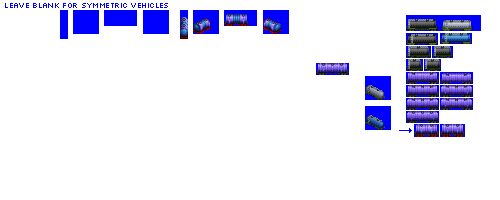
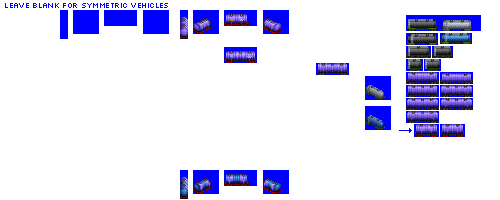
Change: explore type 2 tank car sprites

diff --git a/src/vehicles/pony/tank_cars_type_2_pony.py b/src/vehicles/pony/tank_cars_type_2_pony.py
@@ -10,7 +10,7 @@ def main(roster_id, **kwargs):
         base_numeric_id=17300,
         gen=3,
         subtype="A",
-        sprites_complete=True,
+        sprites_complete=False,
     )
 
     consist.add_unit(type=FreightCar, chassis="2_axle_filled_16px")
@@ -21,7 +21,7 @@ def main(roster_id, **kwargs):
         base_numeric_id=25020,
         gen=3,
         subtype="B",
-        sprites_complete=True,
+        sprites_complete=False,
     )
 
     consist.add_unit(type=FreightCar, chassis="4_axle_gapped_24px")
@@ -32,7 +32,7 @@ def main(roster_id, **kwargs):
         base_numeric_id=28320,
         gen=3,
         subtype="C",
-        sprites_complete=True,
+        sprites_complete=False,
     )
 
     consist.add_unit(type=FreightCar, chassis="4_axle_gapped_32px")
@@ -43,7 +43,7 @@ def main(roster_id, **kwargs):
         base_numeric_id=17720,
         gen=4,
         subtype="A",
-        sprites_complete=True,
+        sprites_complete=False,
     )
 
     consist.add_unit(type=FreightCar, chassis="2_axle_sparse_16px")
@@ -54,7 +54,7 @@ def main(roster_id, **kwargs):
         base_numeric_id=30850,
         gen=4,
         subtype="B",
-        sprites_complete=True,
+        sprites_complete=False,
     )
 
     consist.add_unit(type=FreightCar, chassis="4_axle_sparse_24px")
@@ -65,7 +65,7 @@ def main(roster_id, **kwargs):
         base_numeric_id=17680,
         gen=4,
         subtype="C",
-        sprites_complete=True,
+        sprites_complete=False,
     )
 
     consist.add_unit(type=FreightCar, chassis="4_axle_sparse_32px")
@@ -77,18 +77,18 @@ def main(roster_id, **kwargs):
         base_numeric_id=32880,
         gen=5,
         subtype="A",
-        sprites_complete=True,
+        sprites_complete=False,
     )
 
     consist.add_unit(type=FreightCar, chassis="2_axle_sparse_16px")
-
+    """
     consist = TankCarStandardConsistType2(
         roster_id=roster_id,
         roster_id_providing_module=kwargs["roster_id_providing_module"],
-        base_numeric_id=34840,
+        base_numeric_id=33050,
         gen=5,
         subtype="B",
-        sprites_complete=True,
+        sprites_complete=False,
     )
 
     consist.add_unit(type=FreightCar, chassis="4_axle_sparse_24px")
@@ -96,11 +96,10 @@ def main(roster_id, **kwargs):
     consist = TankCarStandardConsistType2(
         roster_id=roster_id,
         roster_id_providing_module=kwargs["roster_id_providing_module"],
-        base_numeric_id=27410,
+        base_numeric_id=37000,
         gen=5,
         subtype="C",
-        sprites_complete=True,
+        sprites_complete=False,
     )
 
     consist.add_unit(type=FreightCar, chassis="4_axle_sparse_32px")
-    """
